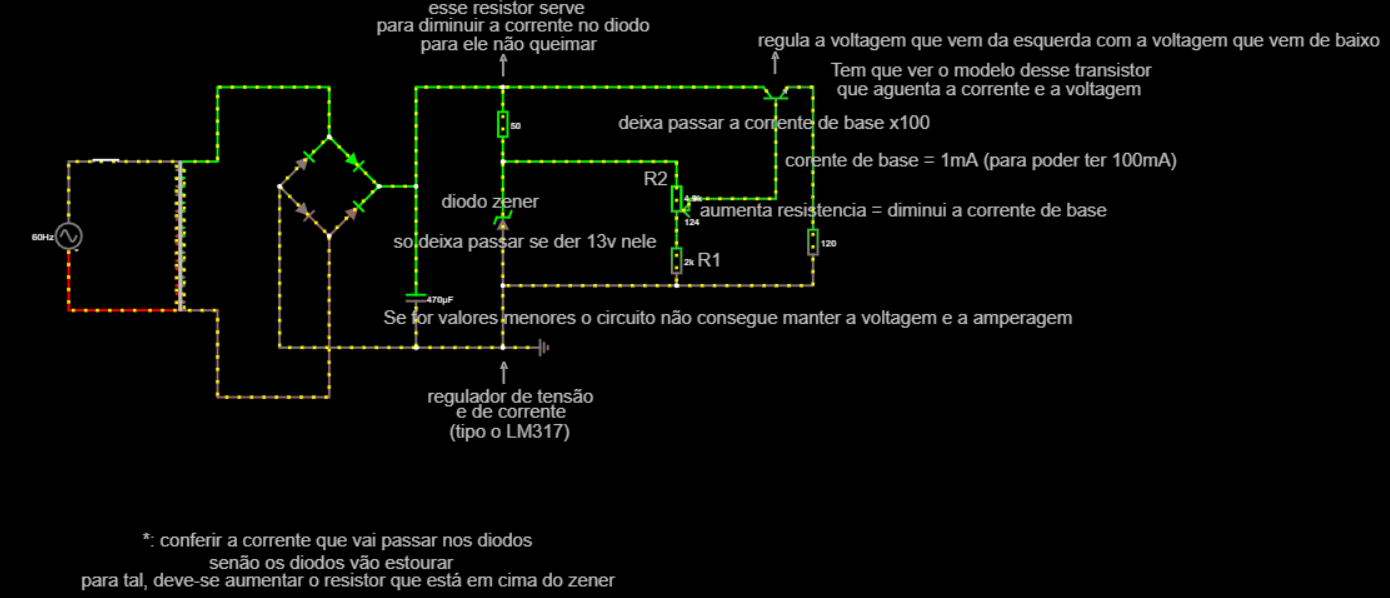
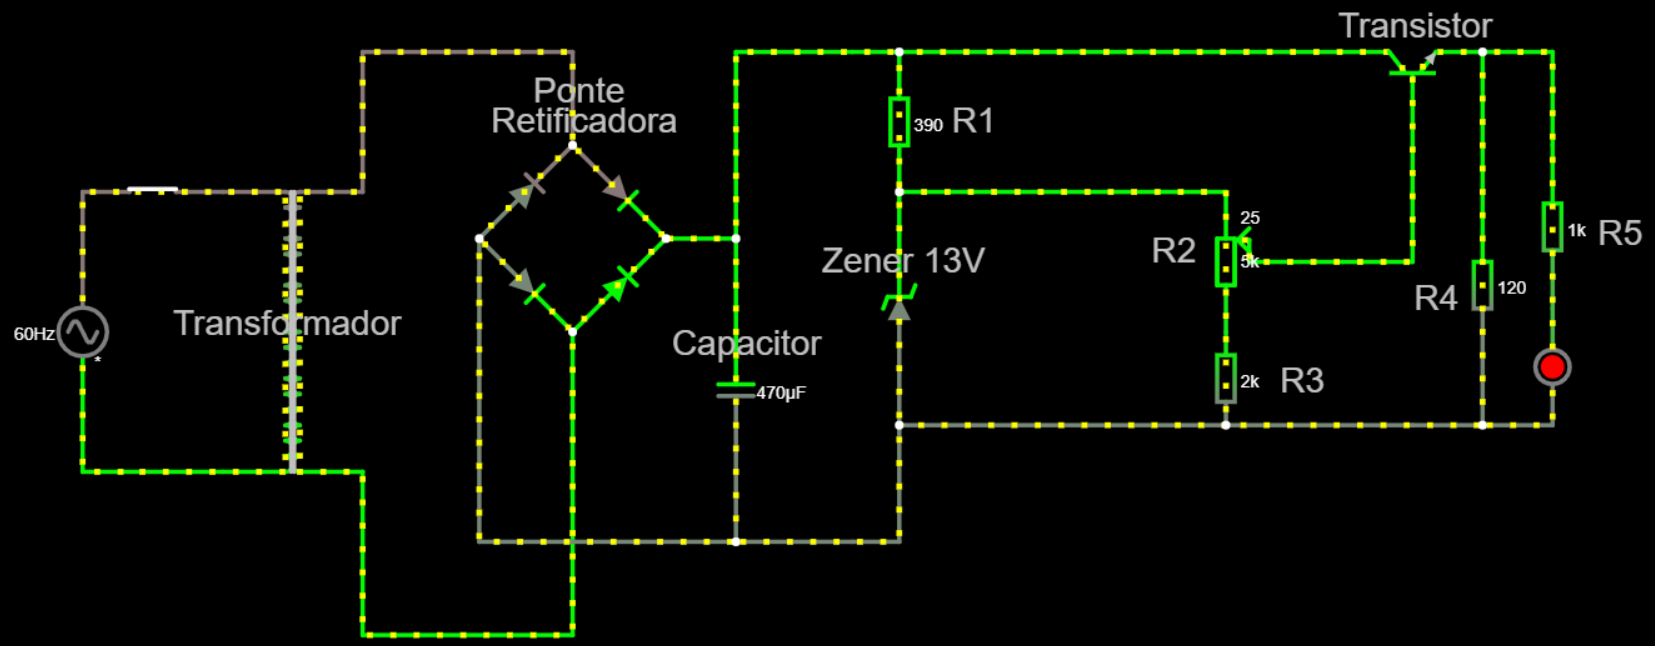
New README

Changed region(s): [[0.0, 0.0, 1.0, 0.9933]]

diff --git a/README.md b/README.md
@@ -5,52 +5,59 @@ Projeto de estudo e desenvolvimento de uma fonte elétrica na matéria de SSC018
 ## Diagrama da Fonte
 <img src="images/DiagramaFonte.PNG">
 
-* Tensão ajustável entre 3V e 12V
+### Critérios
+* Tensão ajustável entre 3V e 12V 
 * Corrente de 100mA
 * Baixo Custo
 
 ### Componentes e seus Valores
-| Componente | Especificações | Valor |
-| :---              |     :---:      |          :---  |
-| Resistor          | 50Ω                 | R$            |
-| Resistor          | 120Ω                 | R$            |
-| Resistor          | 2kΩ                 | R$            |
-| Potenciômetro     | 5kΩ                 | R$            |
-| Capacitor         | 470μF               | R$            |
-|Transistor         | 15V  e 500mA        | R$            |
-| Diodo de Zener    | 0,5W                | R$            |
-| Ponte Retificadora| 15V e 2A            | R$            |
-| Transformador     | 15V e 500mA         | R$            |
-| Fios (jumper)     | 15V e 500mA         | R$            |
-| Protoboard        | 830 Pontos          | R$            |
-| **Custo Total**   |                     | **R$**        |          
+| Componente        | Especificações      | Valor (Unidade)|
+| :---              |     :---:           |          :---  |
+| Resistor          | 120Ω                | [R$0,86](https://produto.mercadolivre.com.br/MLB-1018650605-kit-10-x-resistor-120-ohm-5-14w-025w-120r-arduino-pic-_JM?      matt_tool=79246729&matt_word&gclid=CjwKCAjw_LL2BRAkEiwAv2Y3SUJ3F83lU_eK4WZagDTpvwNTzqZsO1i3uPnKI7YKTb37Pw_KJQY8TBoCz2kQAvD_BwE&quantity=1)         |
+| Resistor          | 390Ω                | [R$0,30](https://produto.mercadolivre.com.br/MLB-1008875897-kit-100un-resistores-2w-de-potncia-escolha-1-valor-ohmico-_JM?quantity=1&variation=24614777985#reco_item_pos=0&reco_backend=machinalis-seller-items-pdp&reco_backend_type=low_level&reco_client=vip-seller_items-above&reco_id=10f4f528-f90c-4ae4-a79b-d7bc075436cd)         |
+| Resistor          | 1kΩ                 | [R$0,13](https://produto.mercadolivre.com.br/MLB-1399314776-resistor-1k-ohms-100-unidades-_JM?quantity=1#position=1&type=item&tracking_id=52f519e5-730a-499f-b8c5-b95d75cb7d62)         |
+| Resistor          | 2kΩ                 | [R$0,16](https://produto.mercadolivre.com.br/MLB-1359755617-100un-resistor-18w-2k-2000-ohms-_JM?quantity=1#position=1&type=item&tracking_id=cfe0aced-991b-46f7-ad48-868c569c5428)         |
+| Potenciômetro     | 5kΩ                 | [R$1,09](https://www.baudaeletronica.com.br/potenciometro-linear-de-5k-5000.html)         |
+| Capacitor         | 470μF               | [R$1,70](https://produto.mercadolivre.com.br/MLB-845022301-10x-capacitor-eletrolitico-470uf-x-25v-470-uf-470uf-b-_JM?matt_tool=79246729&matt_word&gclid=CjwKCAjw_LL2BRAkEiwAv2Y3Sb3K7a3Tunb33Op9IqjhFXaI9mM8M3F670_AOoe76uXUgjvsgv6zNBoC-swQAvD_BwE&quantity=1)         |
+| Transistor        | 15V  e 500mA        | [R$1,12](https://produto.mercadolivre.com.br/MLB-939476869-10x-transistor-2sa1015-a1015-_JM?quantity=1&shippingOptionId=undefined)         |
+| Diodo de Zener    | 0,5W                | [R$0,21](https://produto.mercadolivre.com.br/MLB-1395521239-diodo-zener-13v-05w-1n5243-lote-de-100-pecas-_JM?quantity=1#position=1&type=item&tracking_id=d4d209e7-f5b5-459a-9025-ddfa3d9fc5e1)         |
+| Ponte Retificadora| 1000V e 2A          | [R$1,96](https://produto.mercadolivre.com.br/MLB-1151520283-ponte-retificadora-2w10-2a-1000v-lote-com-10-pecas-_JM?quantity=1#position=25&type=item&tracking_id=595601ca-7ab7-4d81-a34e-d3e6fc7ebbfb)         |
+| Transformador     | 15V e 500mA         | [R$25,90](https://www.filipeflop.com/produto/transformador-trafo-15v-500ma-bivolt/)         |
+<!-- | Fios (jumper)     | 15V e 500mA         | R$            | -->
+<!-- | Protoboard        | 830 Pontos          | R$            | -->
+|LED                | Difuso 3mm          | [R$0,20](https://www.eletrogate.com/led-difuso-3mm-vermelho)    |
+|Switch             | 250V e 3A           | [R$8,00](https://produto.mercadolivre.com.br/MLB-1300399738-boto-chave-gangorra-mini-interruptor-liga-desliga-on-off-10x15mm-kcd13-101-3a-250v-arduino-_JM?matt_tool=82322591&matt_word&gclid=CjwKCAjwh472BRAGEiwAvHVfGiIrBuFd12GNr9Fzy1iuBbbODLDgRfy8wOzeg9Zas0lDsioWgCMYHhoCPS4QAvD_BwE&quantity=1&variation=42249952649&onAttributesExp=true)        |
+| **Custo Total**   |                     | **R$41,63**        |          
 
 ### Justificativa dos Componentes Escolhidos
 1. Resistores
-    - de 50Ω: No circuito chega em até 300mW, então esse de 1W está bom
-    - de 120Ω: 
-    - de 2kΩ: Como está ligado em série com o potênciometro ele também serve para regular a tensão de base que vai para o transistor e consequentemente a voltagem de saída de nossa fonte.
-2. Potenciômetro
-    - Regula a corrente de base que vai para o transistor, assim a fonte varia de 12v e 100mA para 3v e ~24mA
-3. Capacitor
-    - Nosso circuito chega em um pico de 13V, então o de 25V é mais do que suficiente.
-4. Transistor
-    - Regula a corrente, e consequentemente diminui a tensão também para conseguir limitar a corrente (100 vezes a corrente de base)
-5.  Diodo de Zener
+    - R1 (390Ω) : Limita corrente eletrica que passa pelo Zener  
+    - R2 (5kΩ)  : Potenciômetro , regula a corrente de base que vai para o transistor, assim a fonte varia de 12v e 100mA para 3v e ~24mA
+    - R3 (2kΩ)  : Como está ligado em série com o potênciometro ele também serve para regular a tensão de base que vai para o transistor e consequentemente a voltagem de saída de nossa fonte.
+    - R4 (120Ω) : Auxiliar para a regulagem da tensão de saída
+    - R5 (1kΩ)  : Deixa a corrente adequada para o funcionamento do LED
+2. Capacitor
+    - Nosso circuito chega em um pico de 15V, então o de 25V é mais do que suficiente.
+3. Transistor
+    - Regula a corrente, e consequentemente diminui a voltagem de saída para também conseguir limitar a corrente (100 vezes a corrente de base). 
+4.  Diodo de Zener
     - Equivale a : 13V e 20mA. Isso pois (P=i*U) P = 13V * 0,02A = 0.26W, então um diodo de 0,5W é mais do que suficiente
-    - É importante ressaltar que corrente que passa pelo diodo é a corrente que passa pelo resistor 50ohm menos o 1mA que vai pro transistor
-
-6. Ponte Retificadora
+    - É importante ressaltar que: a corrente que passa pelo diodo é a corrente que atravessa o resistor 390 Ohm (R1: 6mA ) menos 3mA que vai pro transistor ==> 3mA passando no Zener
+5. Ponte Retificadora
     - Transforma AC em DC que sai de nosso transformador
-7. Transformador
-    - Bivolt (pode ser ligado em 220v ou 127v)
+6. Transformador
+    - Bivolt (pode ser ligado em 220v ou 127v). Potência de 7,5W
+7. LED
+    - Indica que o circuito está ligada, algo trivial
+<!-- 8. GND
+    - O ground faz o escape da energia para um local seguro, por precaução -->
 <!-- 8. Fios
-    - 
-9. Protoboard
+    - Conectam os componentes do circuito  -->
+<!-- 9. Protoboard
     - Base de construção de circuitos. Escolhida por praticidade, não necessita soldar para conectar componentes do circuito -->
 
 ## Circuito no Falstad
-* http://tinyurl.com/y8g3jqbd
+* http://tinyurl.com/yb2yxa53
 
 ## Projeto do Esquemático e do PCB no EAGLE
 
@@ -71,3 +78,4 @@ Projeto de estudo e desenvolvimento de uma fonte elétrica na matéria de SSC018
 ## Agradecimentos
 
 * Agradecimentos ao Prof Simões pela oportunidade de realizar o projeto.
+* Agradecimentos à equipe pela dedicação e afinco nestes tempos anômalos
